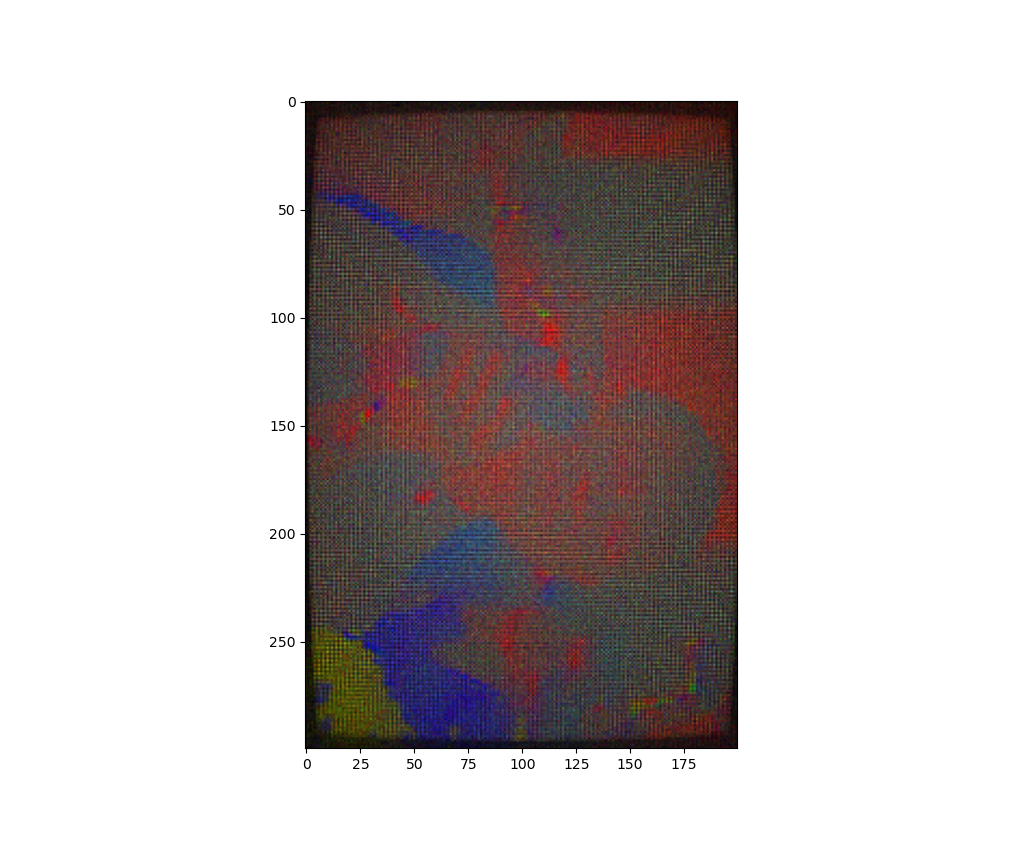
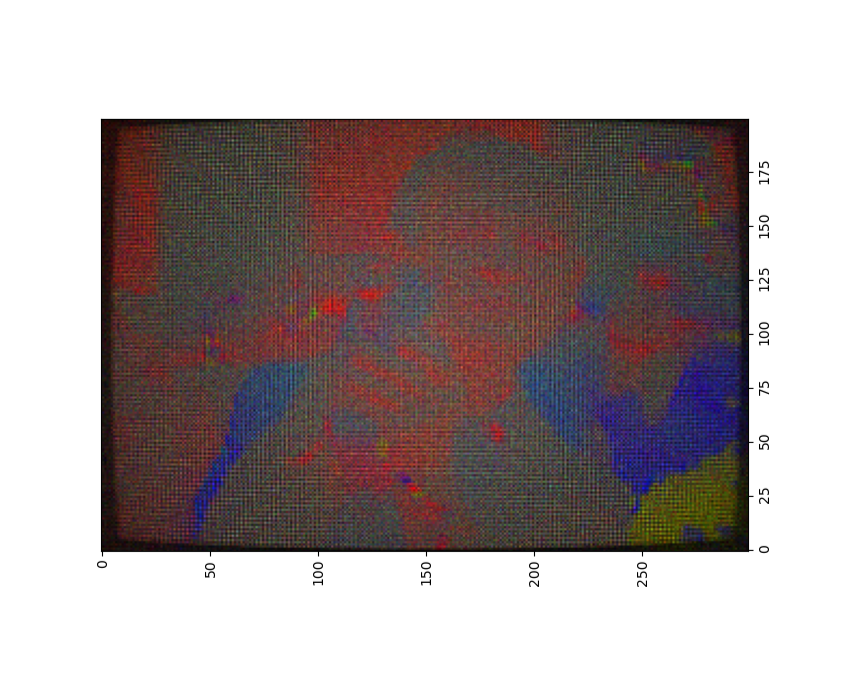
Checkpoint - Image2D Propagation

diff --git a/python/ImagingSystem.py b/python/ImagingSystem.py
@@ -29,7 +29,7 @@ class ImagingSystem:
         self.point = None 
         self.inputImage = None 
 
-        self._perSpotSample = 5000
+        self._perSpotMaxSample = 100
 
     
     def AddLens(self, lens):
@@ -57,12 +57,17 @@ class ImagingSystem:
         mat = []
 
         start = time.time()
-        for i in range(image.sampleX - 1):
-            for j in range(image.sampleY - 1):
+        sX = image.sampleX
+        sY = image.sampleY
+
+        for i in range(sX- 1):
+            print("At {:.2f} percent".format(100 * i/sX))
+            for j in range(sY - 1):
                 pointdata = image.pointData[j, i]
                 temp = self._singlePointRaybatch(pointdata[:3], 
                                                 pointdata[3:6], 
                                                 image.bitDepth)
+                if(len(temp) == 0): continue # pure black 
                 if(len(mat) == 0):
                     mat = temp
                 else:
@@ -235,10 +240,13 @@ class ImagingSystem:
             return trans_2
         
 
-    def _singlePointRaybatch(self, posP, RGB=[255, 255, 255], bitDepth=8):
+    def _singlePointRaybatch(self, posP, RGB=[1, 1, 1], bitDepth=8):
         """
         Generate the initial rayBatch for a single point light source. 
         """
+        lumi = LumiPeak(RGB)
+        if(lumi == 0): return [] 
+
         # Accquire all wavelengths and corresponding radiants  
         wavelengths, radiants = RGBToWavelength(RGB, self.primaries, self.secondaries, self.UVIRcut)
         
@@ -256,7 +264,8 @@ class ImagingSystem:
             posC = np.array([sd, 0, 0]) + offset
         posB = self._findB(posA, posC, posP)
 
-        points = np.transpose(self._ellipsePeripheral(posA, posB, posC, posP, sd, r, samplePoints=self._perSpotSample)) # Sample points in the ellipse area 
+        sampleAmount = int(lumi * self._perSpotMaxSample)
+        points = np.transpose(self._ellipsePeripheral(posA, posB, posC, posP, sd, r, sampleAmount)) # Sample points in the ellipse area 
         vecs = ArrayNormalized(points - posP)
 
         # Radiant is used to calculate the amount of rays 
@@ -298,7 +307,7 @@ def main():
     # Update immediately after all the surfaces are defined  
     biotar.UpdateLens() 
 
-    # Set up the imager 32.3552
+    # Set up the imager 32.3552 (35 for 1500 distance)
     imager = Imager(bfd=35)
 
     # Assemble the imaging system 
@@ -312,6 +321,7 @@ def main():
     testPoint.fieldX = 15
     testPoint.fieldY = 10
     testPoint.distance = 700
+    testPoint.RGB = np.array([0.4, 0.7, 0.1])
     # Propagate light 
     #imgSys.SinglePointSpot(testPoint)
 

diff --git a/python/Util.py b/python/Util.py
@@ -279,6 +279,11 @@ def RandomEllipticalDistribution(major_axis=1, minor_axis=1, samplePoints=500, s
 """ ================== Color and conversions =================== """
 # ==================================================================
 
+def LumiPeak(RGB):
+    lumi = 0.2126*RGB[0] + 0.7152*RGB[1] + 0.0722 *RGB[2]
+    return lumi
+
+
 def RGBToWavelength(RGB, 
                     primaries = {"R": "C'", "G": "e", "B":"g"}, 
                     secondaries = ["F", "D"], 

diff --git a/python/Imager.py b/python/Imager.py
@@ -149,7 +149,7 @@ class Imager():
         
         maxValue = np.max([radiantGridR.max(), radiantGridG.max(), radiantGridB.max()])
         bits = 2.0**bitDepth-1
-        scaleRatio = bits / maxValue # TODO: this need to be automated 
+        scaleRatio = (bits / maxValue)
 
         red_channel = np.clip(radiantGridR*scaleRatio, 0, bits) 
         green_channel = np.clip(radiantGridG*scaleRatio, 0, bits)  

diff --git a/python/RayBatch.py b/python/RayBatch.py
@@ -55,3 +55,8 @@ class RayBatch:
 
     def SetVignette(self, vignettedIndices):
         self.value[vignettedIndices, 9] = 0
+
+
+def RandomDrop(raybatch, keeprate = 1):
+    pass 
+
